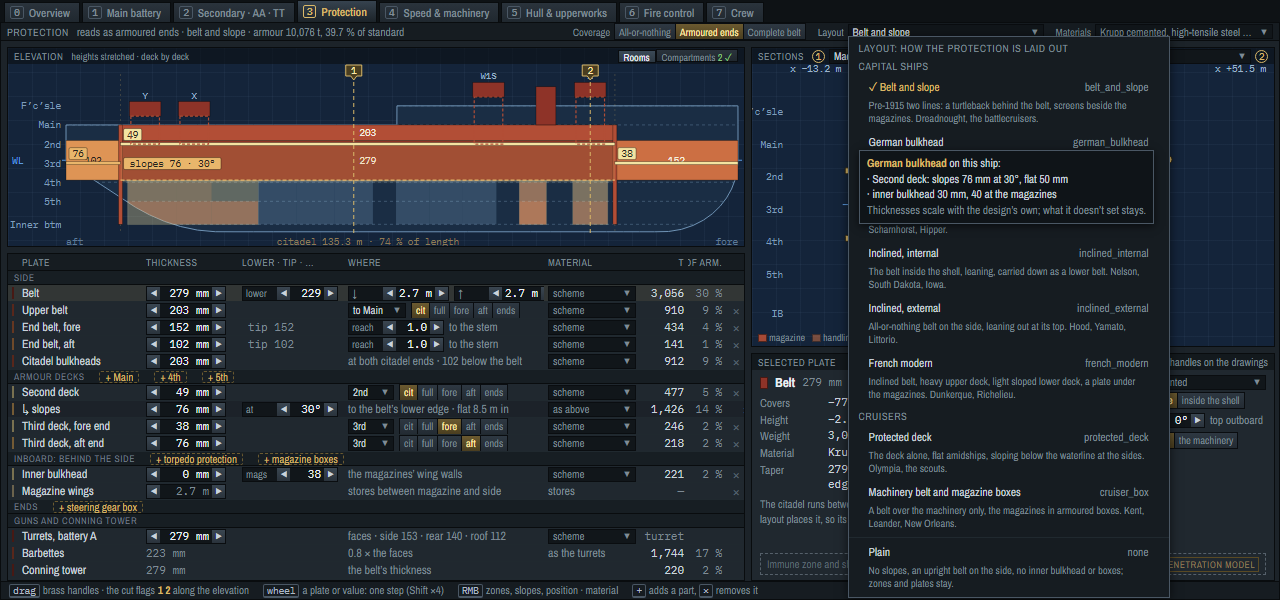
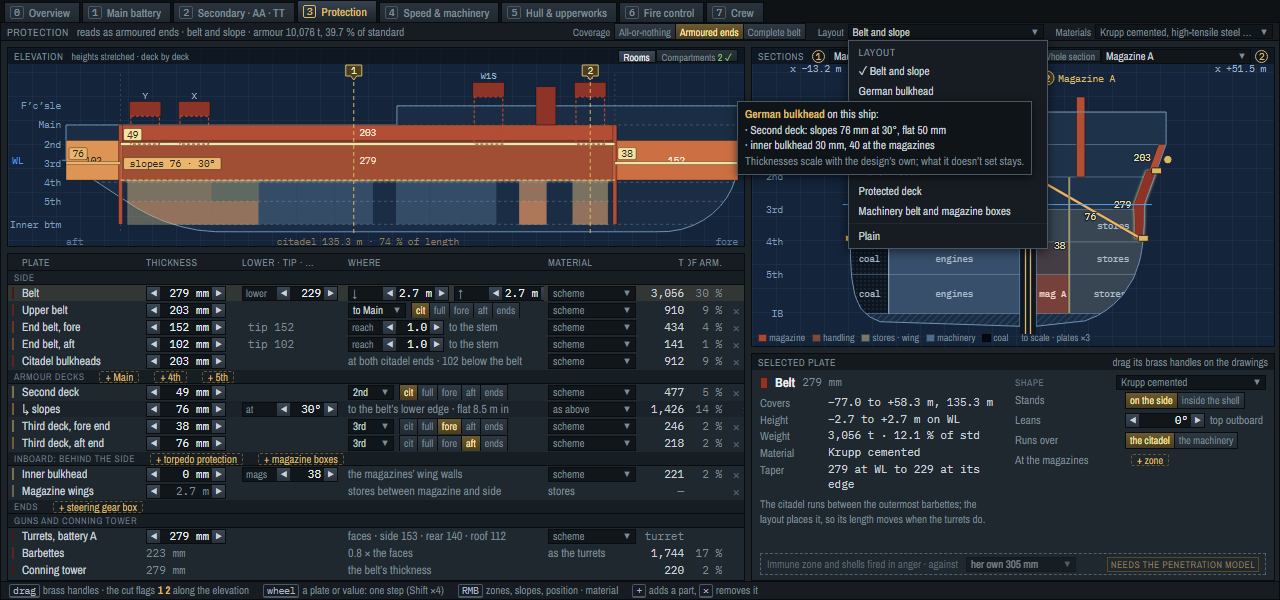
Protection layers mockup: thickness only in the table, Layout a plain list
Review: sub-rows stay, Shape keeps form (zones and slopes added and removed,
the angle, lean, position) and shows thicknesses read-only; the Layout
dropdown lists names only, no groups or descriptions, the hover keeps what a
layout does to this ship.

Changed region(s): [[0.5625, 0.06, 0.9375, 1.0]]

diff --git a/docs/designer-ui/protection-layers.html b/docs/designer-ui/protection-layers.html
@@ -1116,7 +1116,7 @@ function innerOnText() {
 function secondCell(r) {
   const id = r.id;
   if (id === 'belt') return spinner('bbot', A.belt_bottom_mm ?? A.belt_mm, nF, 10, v => setVal(r, 'bot', v), {pre: 'lower', auto: A.belt_bottom_mm == null, cls: 's'});
-  if (id.startsWith('slope')) return spinner('sdeg' + r.i, A.decks[r.i].slope_deg ?? 30, degF, 1, v => setVal(r, 'deg', v), {pre: 'at', cls: 's'});
+  if (id.startsWith('slope')) return h('span', {class: 'ro', style: 'padding-right:0'}, `at ${N0(A.decks[r.i].slope_deg ?? 30)}°`);   // the angle is form: Shape edits it
   if (id === 'tds') return spinner('tdsl', A.tds_layers || 1, nF, 1, v => setVal(r, 'layers', v), {pre: 'layers', cls: 's'});
   if (id === 'inner') return spinner('innm', r.mags, nF, 5, v => setVal(r, 'mags', v), {pre: 'mags', cls: 's'});
   if (id === 'box') return spinner('boxcr', A.magazine_box?.crown_mm || 0, nF, 5, v => setVal(r, 'crown', v), {pre: 'crown', cls: 's'});
@@ -1201,7 +1201,7 @@ function shapeOf(r) {
     out.push(row('Leans', spinner('lean', lean(), degF, 1, v => { A.belt_incline_deg = clamp(Math.round(v), 0, 30); if (!A.belt_incline_deg) delete A.belt_incline_deg; }), h('span', {class: 'dim'}, 'top outboard')));
     out.push(row('Runs over', seg([['citadel', 'the citadel'], ['machinery', 'the machinery']], A.belt_extent === 'machinery' ? 'machinery' : 'citadel', v => { if (v === 'machinery') A.belt_extent = 'machinery'; else delete A.belt_extent; })));
     out.push(row('At the magazines', A.belt_magazines_mm != null
-      ? [spinner('bz', A.belt_magazines_mm, mmF, 10, v => { A.belt_magazines_mm = Math.max(0, v); }), h('button', {class: 'ico', onclick: e => { e.stopPropagation(); edit(() => { delete A.belt_magazines_mm; sel = 'belt'; }); }}, '×')]
+      ? [h('span', {class: 'mono dim'}, `${N0(A.belt_magazines_mm)} mm, its row`), h('button', {class: 'ico', onclick: e => { e.stopPropagation(); edit(() => { delete A.belt_magazines_mm; sel = 'belt'; }); }}, '×')]
       : addChip('zone', () => { ADD.beltzone(); sel = 'beltzone'; }, 'A thickness of its own beside the magazines (KGV 374 against 348; Brooklyn thinner)')));
     if (internal()) out.push(h('div', {class: 'note'}, `Inside the shell, ${f1(0.3)} m in at its top; carried on down as a lower belt to the inner bottom, ${N0(A.belt_bottom_mm ?? A.belt_mm)} tapering to 25 mm. The space outboard of it is a wing.`));
     if (internal() && A.belt_bottom_mm == null) out.push(h('div', {class: 'warn'}, 'Untapered: the lower belt starts at the belt’s full thickness and weighs heavy. Set a lower edge.'));
@@ -1210,12 +1210,12 @@ function shapeOf(r) {
     const i = r.i, d = A.decks[i], cit = ['citadel', 'full'].includes(d.extent || 'citadel');
     if (!cit) { out.push(h('div', {class: 'note'}, 'An end deck: flat, side to side. Slopes and zones are for citadel decks.')); return out; }
     out.push(row('Slopes', (d.slope_mm || 0) > 0
-      ? [spinner('sl', d.slope_mm, mmF, 5, v => setVal({id: 'slope' + i, i}, 'mm', v)), spinner('sd', d.slope_deg ?? 30, degF, 1, v => setVal({id: 'slope' + i, i}, 'deg', v), {cls: 's'}),
+      ? [spinner('sd', d.slope_deg ?? 30, degF, 1, v => setVal({id: 'slope' + i, i}, 'deg', v), {cls: 's'}), h('span', {class: 'mono dim'}, `${N0(d.slope_mm)} mm`),
          h('button', {class: 'ico', onclick: e => { e.stopPropagation(); edit(() => removeRow({id: 'slope' + i, i})); }}, '×')]
       : addChip('slopes', () => { addSlopes(i); sel = 'slope' + i; }, 'The deck turns down each side to meet the side at the belt’s lower edge')));
     if ((d.slope_mm || 0) > 0) { const g = slopeGeo(d); out.push(row('Flat', h('span', {class: 'mono'}, `${N0(d.mm)} mm, stops ${f1(g.reach)} m in from the side`))); }
     out.push(row('At the magazines', d.magazines_mm != null
-      ? [spinner('dz', d.magazines_mm, mmF, 5, v => setVal({id: 'dzone' + i, i}, 'mm', v)), h('button', {class: 'ico', onclick: e => { e.stopPropagation(); edit(() => removeRow({id: 'dzone' + i, i})); }}, '×')]
+      ? [h('span', {class: 'mono dim'}, `${N0(d.magazines_mm)} mm, its row`), h('button', {class: 'ico', onclick: e => { e.stopPropagation(); edit(() => removeRow({id: 'dzone' + i, i})); }}, '×')]
       : addChip('zone', () => { addDeckZone(i); sel = 'dzone' + i; })));
     if ((d.slope_mm || 0) > 0) out.push(h('div', {class: 'note'}, 'The slope’s foot is on the belt’s lower edge: move that edge and the slope follows. Drag the brass knee on the section to change the angle.'));
   } else if (id === 'tds') {
@@ -1285,33 +1285,23 @@ function reading() {
 }
 function layoutItems() {
   const cur = layoutNow();
-  const items = [{head: 'Layout: how the protection is laid out'}];
-  let grp = null;
+  const items = [{head: 'Layout'}];
   for (const t of LAYOUTS) {
-    if (t.group !== grp) { grp = t.group; items.push({head: grp}); }
     const a = applyLayout(A, t.value), words = layoutWords(a);
-    items.push({lab: t.name, key: t.note, ds: DESC[t.note] || '', cur: cur.t === t && !cur.own,
+    items.push({lab: (cur.t === t && !cur.own ? '✓ ' : '') + t.name, cur: cur.t === t && !cur.own,
       tip: `<b>${t.name}</b> on this ship:<br>${words.length ? words.map(w => '· ' + w).join('<br>') : 'nothing to change'}<br><span class="dim">Thicknesses scale with the design’s own; what it doesn’t set stays.</span>`,
       fn: () => { A = applyLayout(A, t.value); layoutTouched = 'applied'; S.scheme = t.note; }});
   }
-  items.push('sep', {lab: 'Plain', key: 'none', ds: 'No slopes, an upright belt on the side, no inner bulkhead or boxes; zones and plates stay.', cur: !cur.t && !cur.own,
+  items.push('sep', {lab: (!cur.t && !cur.own ? '✓ ' : '') + 'Plain', cur: !cur.t && !cur.own, tip: '<b>Plain</b>: no slopes, an upright belt on the side, no inner bulkhead or boxes; zones and plates stay.',
     fn: () => { A = applyLayout(A, null); S.scheme = null; layoutTouched = 'applied'; }});
   return items;
 }
-const DESC = {belt_and_slope: 'Pre-1915 two lines: a turtleback behind the belt, screens beside the magazines. Dreadnought, the battlecruisers.',
-  german_bulkhead: 'The turtleback with a torpedo bulkhead behind the coal, the citadel’s length. Nassau, Kaiser, Derfflinger.',
-  turtleback_modern: 'A low armour deck with shallow slopes behind the belt. Bismarck, Scharnhorst, Hipper.',
-  inclined_internal: 'The belt inside the shell, leaning, carried down as a lower belt. Nelson, South Dakota, Iowa.',
-  inclined_external: 'All-or-nothing belt on the side, leaning out at its top. Hood, Yamato, Littorio.',
-  french_modern: 'Inclined belt, heavy upper deck, light sloped lower deck, a plate under the magazines. Dunkerque, Richelieu.',
-  protected_deck: 'The deck alone, flat amidships, sloping below the waterline at the sides. Olympia, the scouts.',
-  cruiser_box: 'A belt over the machinery only, the magazines in armoured boxes. Kent, Leander, New Orleans.'};
 function subbar() {
   const cur = layoutNow(), at = armourT();
   $('reads').replaceChildren(`reads as ${reading()}${cur.t ? ' · ' + cur.t.name.toLowerCase() : ''} · armour ${N0(at)} t, ${f1(at / stdNow() * 100)} % of standard`);
   const lay = h('span', {class: 'dd', style: 'width:196px', onclick: ev => { ev.stopPropagation(); const r = ev.currentTarget.getBoundingClientRect(), a = $('app').getBoundingClientRect(); menu(ev, layoutItems(), [r.left - a.left, r.bottom - a.top + 1]); }},
     h('span', {style: cur.own ? 'color:var(--amber)' : ''}, cur.name), h('i', {}, '▼'));
-  lay.addEventListener('mousemove', ev => tip(ev, cur.t ? `<b>${cur.t.name}</b>${cur.own ? ' with the design’s own values' : ''}<br><span class="dim">${DESC[cur.t.note]}</span>` : 'No layout template: the plain inputs.'));
+  lay.addEventListener('mousemove', ev => tip(ev, cur.t ? `<b>${cur.t.name}</b>${cur.own ? ' with the design’s own values' : ''}` : 'No layout template: the plain inputs.'));
   lay.addEventListener('mouseleave', untip);
   $('scheme').replaceChildren(
     h('span', {class: 'dim', style: 'font-size:10.5px'}, 'Coverage'),
@@ -1337,7 +1327,7 @@ const M = params.get('menu'), TP = params.get('tip');
 if (M === 'layout') setTimeout(() => document.querySelector('#scheme .dd:not(.sch)').click());
 else if (M === 'cut1' || M === 'cut2') setTimeout(() => document.querySelectorAll('#sect .bh .dd')[M === 'cut1' ? 0 : 1].click());
 else if (M) setTimeout(() => { const e = document.querySelector(`#tbl [data-id="${M}"]`); const r = e.getBoundingClientRect(); e.dispatchEvent(new MouseEvent('contextmenu', {bubbles: true, clientX: r.left + 60, clientY: r.top + 8})); });
-if (TP && TP.startsWith('layout:')) setTimeout(() => { const n = +TP.slice(7), it = document.querySelectorAll('#menu .it')[n]; if (it) { const r = it.getBoundingClientRect(); it.dispatchEvent(new MouseEvent('mousemove', {bubbles: true, clientX: r.right - 4, clientY: r.top + 6})); } }, 30);
+if (TP && TP.startsWith('layout:')) setTimeout(() => { const n = +TP.slice(7), it = document.querySelectorAll('#menu > div:not(.lab):not(.sep)')[n]; if (it) { const r = it.getBoundingClientRect(); it.dispatchEvent(new MouseEvent('mousemove', {bubbles: true, clientX: r.right - 4, clientY: r.top + 6})); } }, 30);
 if (TP && TP.startsWith('cell:')) setTimeout(() => { const [k, n] = TP.slice(5).split(':').map(Number); const els = [...document.querySelectorAll(`#sect svg g[clip-path="url(#shull${k})"] rect`)].filter(e => e.getAttribute('fill-opacity')); const e = els[n]; if (e) { const r = e.getBoundingClientRect(); e.dispatchEvent(new MouseEvent('mousemove', {bubbles: true, clientX: r.left + r.width / 2, clientY: r.top + r.height / 2})); } });
 if (TP === 'handle') setTimeout(() => { const e = document.querySelector('#sect g[data-handle] rect[fill="transparent"]'); if (e) { const r = e.getBoundingClientRect(); e.dispatchEvent(new MouseEvent('mousemove', {bubbles: true, clientX: r.left + 7, clientY: r.top + 7})); } });
 if (TP === 'comp') setTimeout(() => { const e = document.querySelectorAll('#elev .tog')[1]; const r = e.getBoundingClientRect(); e.dispatchEvent(new MouseEvent('mousemove', {bubbles: true, clientX: r.left + 10, clientY: r.top + 6})); });

diff --git a/docs/designer-ui/protection-layers.md b/docs/designer-ui/protection-layers.md
@@ -101,7 +101,7 @@ The same drawing, plus:
   its shape: `inside · 18°`, `11°`, `machinery`.
 - **Sub-rows** (`↳`) under their part, each with its own thickness, weight and `×`:
   - the belt's **↳ at the magazines** (`belt_magazines_mm`);
-  - a deck's **↳ slopes** (`slope_mm`, and the angle in the second column: `at 22°`);
+  - a deck's **↳ slopes** (`slope_mm`; the angle shown read-only, `at 22°`, and edited in Shape or by the knee handle);
   - a deck's **↳ at the magazines** (`magazines_mm`).
 - A new group, **Inboard: behind the side**:
   - **Torpedo protection** (moved here): depth, `layers N`, "3 spaces · holding 45 mm".
@@ -116,14 +116,18 @@ The same drawing, plus:
 
 ## 4. The selected plate: facts, and the part's Shape
 
+Thicknesses live in the table only (review 2026-10-16: sub-rows kept, without duplication). Shape holds what changes a
+plate's form: adding or removing a zone or slopes, a slope's angle, the belt's lean and position; a zone's or slope's
+thickness shows there read-only, "374 mm, its row".
+
 The panel splits in two. On the left are the facts (covers, height, weight, material, taper). On the right is
 **Shape**, the controls that change what the part is rather than how thick it is. The material dropdown moves to
 Shape's header.
 
 | Part | Shape |
 |---|---|
-| Belt | Stands: on the side · inside the shell. Leans: ° (top outboard). Runs over: the citadel · the machinery. At the magazines: `+ zone` or mm `×`. Warnings: an untapered internal belt ("the lower belt starts at full thickness"), a machinery belt without boxes ("the magazines' sides are bare") |
-| Citadel deck | Slopes: `+ slopes`, or mm and ° `×`. Flat: "80 mm, stops 6.1 m in from the side". At the magazines: `+ zone` or mm `×`. End decks: "flat, side to side" |
+| Belt | Stands: on the side · inside the shell. Leans: ° (top outboard). Runs over: the citadel · the machinery. At the magazines: `+ zone`, or its mm (read-only) `×`. Warnings: an untapered internal belt ("the lower belt starts at full thickness"), a machinery belt without boxes ("the magazines' sides are bare") |
+| Citadel deck | Slopes: `+ slopes`, or ° and its mm (read-only) `×`. Flat: "80 mm, stops 6.1 m in from the side". At the magazines: `+ zone`, or its mm (read-only) `×`. End decks: "flat, side to side" |
 | Torpedo protection | Depth, layers, holding bulkhead mm (auto), layer walls mm (auto); "same weight however it's split"; amber while layers are holed at once (H3, open) |
 | Inner bulkhead | Over the citadel mm, at the magazines mm, stands on (read-only), in from the side (only for its own wall) |
 | Magazine boxes | Sides, crown, ends, floor; the runs it boxes |
@@ -134,8 +138,8 @@ The immune-zone placeholder shrinks to one line at the foot.
 ## 5. The sub-bar: Layout
 
 `Coverage [All-or-nothing | Armoured ends | Complete belt]` stays. **Layout** is new: the protection scheme templates
-(`Content/Templates/protection.json`), in groups (Capital ships, Cruisers), each with its one-line family and
-examples. Hovering one lists what it does to *this* ship ("Second deck: slopes 76 mm at 30°, flat 50 mm · inner
+(`Content/Templates/protection.json`) as a plain list of names, no groups and no descriptions (review 2026-10-16: a
+cruiser's layout on a battleship is the player's call). Hovering one lists what it does to *this* ship ("Second deck: slopes 76 mm at 30°, flat 50 mm · inner
 bulkhead 30 mm, 40 at the magazines"); a click applies it (`ProtectionSchemes.Apply`). **Plain** at the foot clears the
 layout keys. The dropdown shows the template the design is on, "· own values" in amber where the design keeps its own
 figures (Nelson's 18°), "· edited" after a hand edit, and **Custom** when no template fits. The old "Scheme" dropdown is
@@ -196,7 +200,7 @@ sides on the wing wall, wings never fuel.
 ## Questions for the review
 
 1. ~~Two half-sections or one full section?~~ Settled 2026-10-16: two cuts by default, the split made unmistakable (gutter, break line, badges), and a Whole section toggle that keeps 2 locked to 1.
-2. Sub-rows for zones and slopes in the table, as well as Shape. Or Shape only, keeping the table one row per part?
+2. ~~Sub-rows or Shape only?~~ Settled 2026-10-16: sub-rows, with thickness only in the table; Shape keeps form.
 3. ~~The Compartments toggle here?~~ Settled 2026-10-16: here (a visual toggle, nothing lost).
 4. ~~Layout where?~~ Settled 2026-10-16: both, the sub-bar and the Templates panel.
 
@@ -231,7 +235,7 @@ Screenshots (`png/protection-layers-*.png`):
 - `kgv`: zones, showing finding 1.
 - `bismarck-layers`: three TDS layers with a 45 mm holding bulkhead, cut at X and A.
 - `destroyer-box`: a 25 mm box and 1.6 m wings added.
-- `layout-menu`: the Layout list, hovering German bulkhead.
+- `layout-menu`: the Layout list (names only), hovering German bulkhead.
 - `dread-german`: German bulkhead applied.
 - `bismarck-whole`: both cuts at the machinery, one whole section, the slopes selected.
 - `cutmenu`: section 2's dropdown, the stops.
